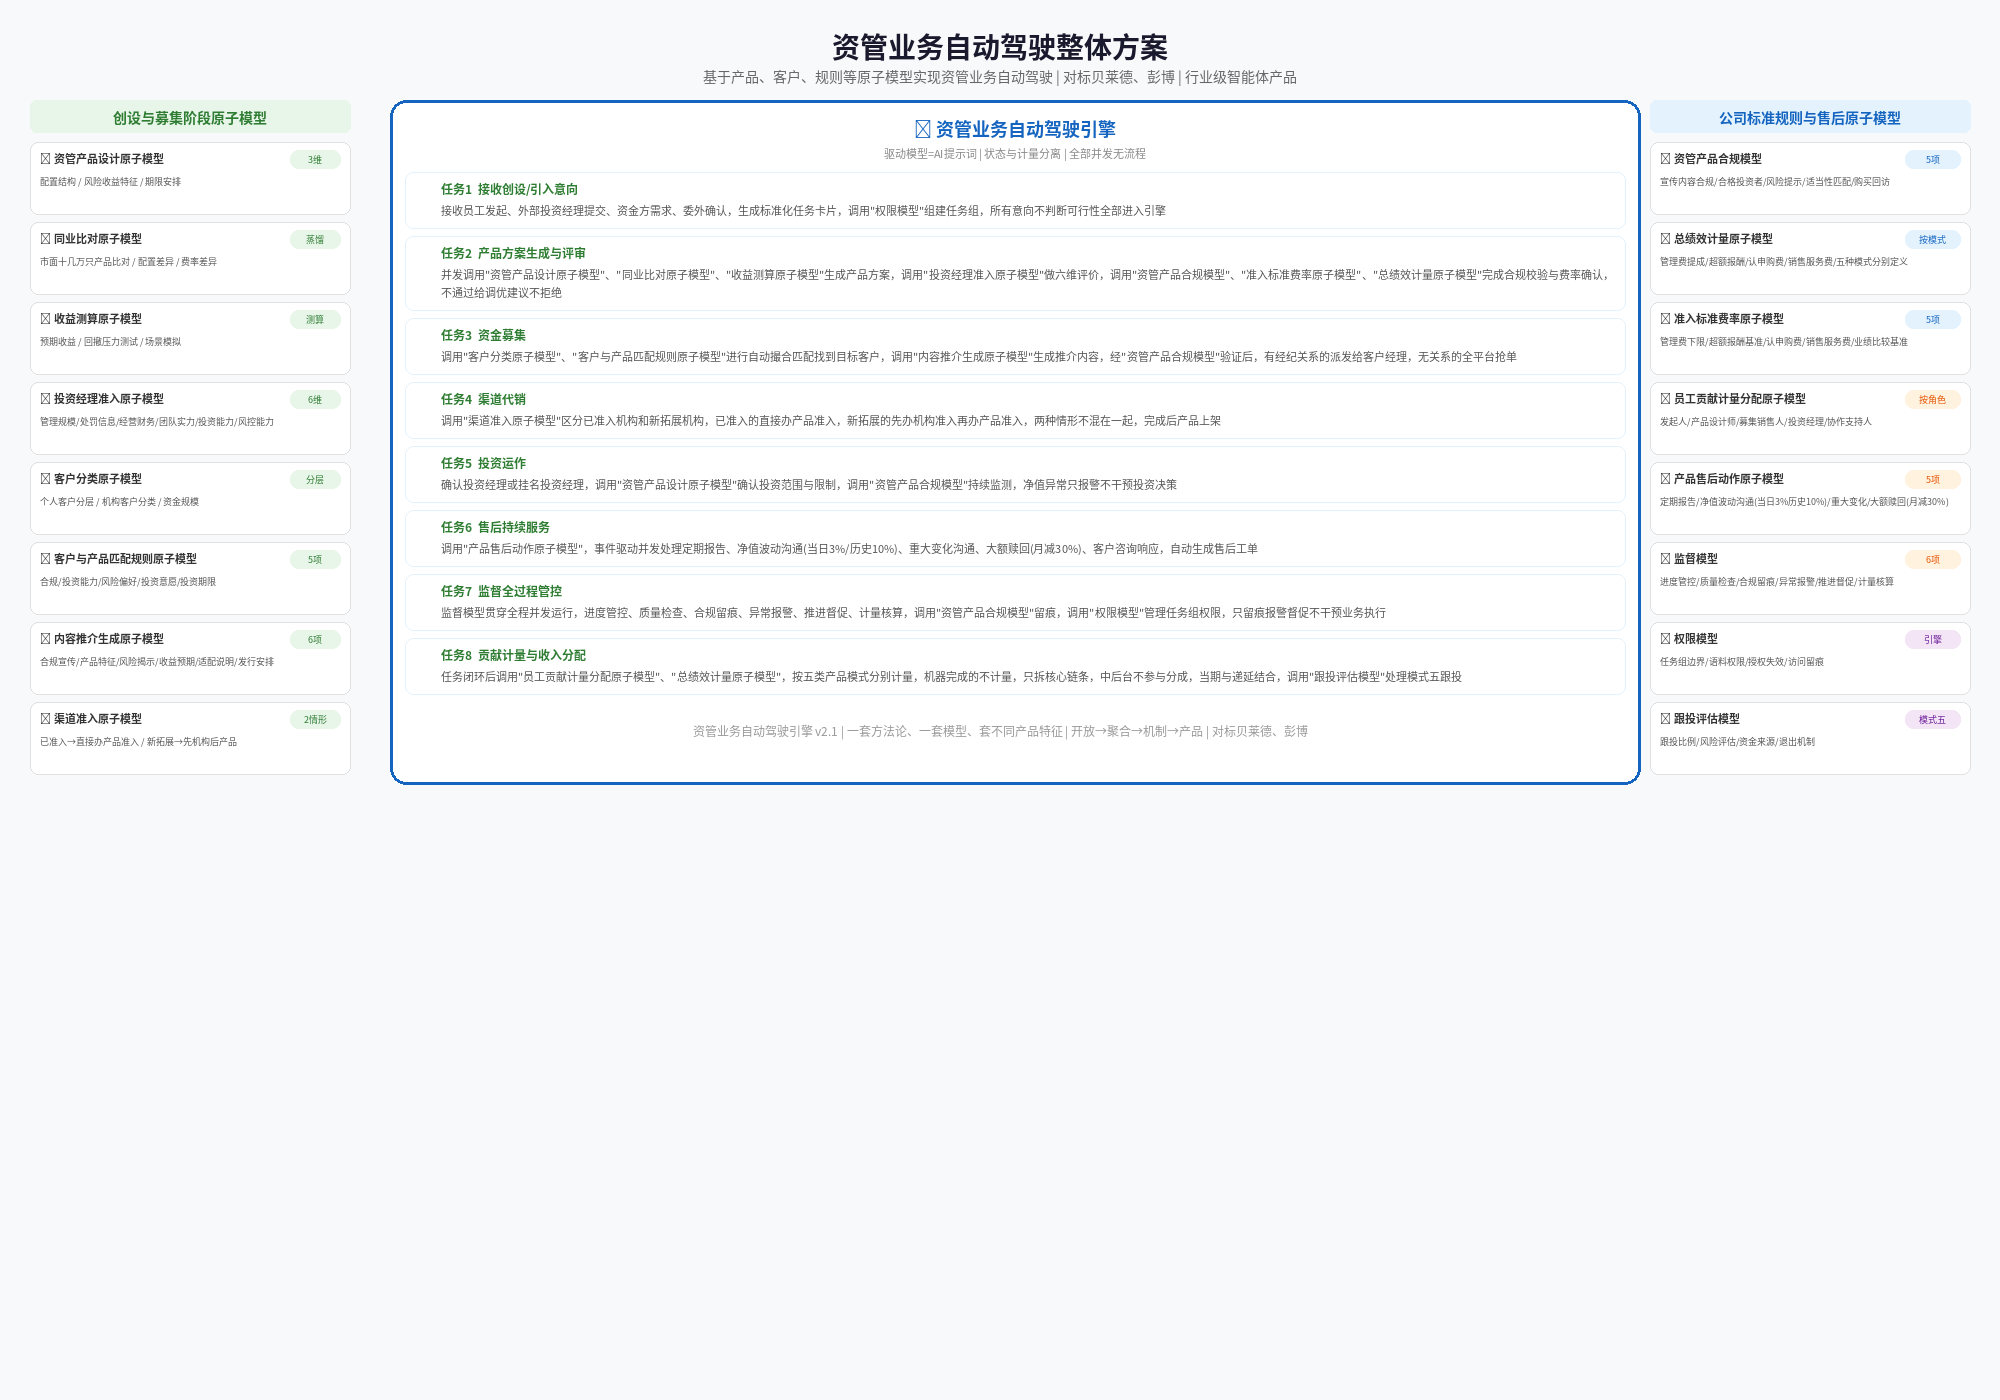
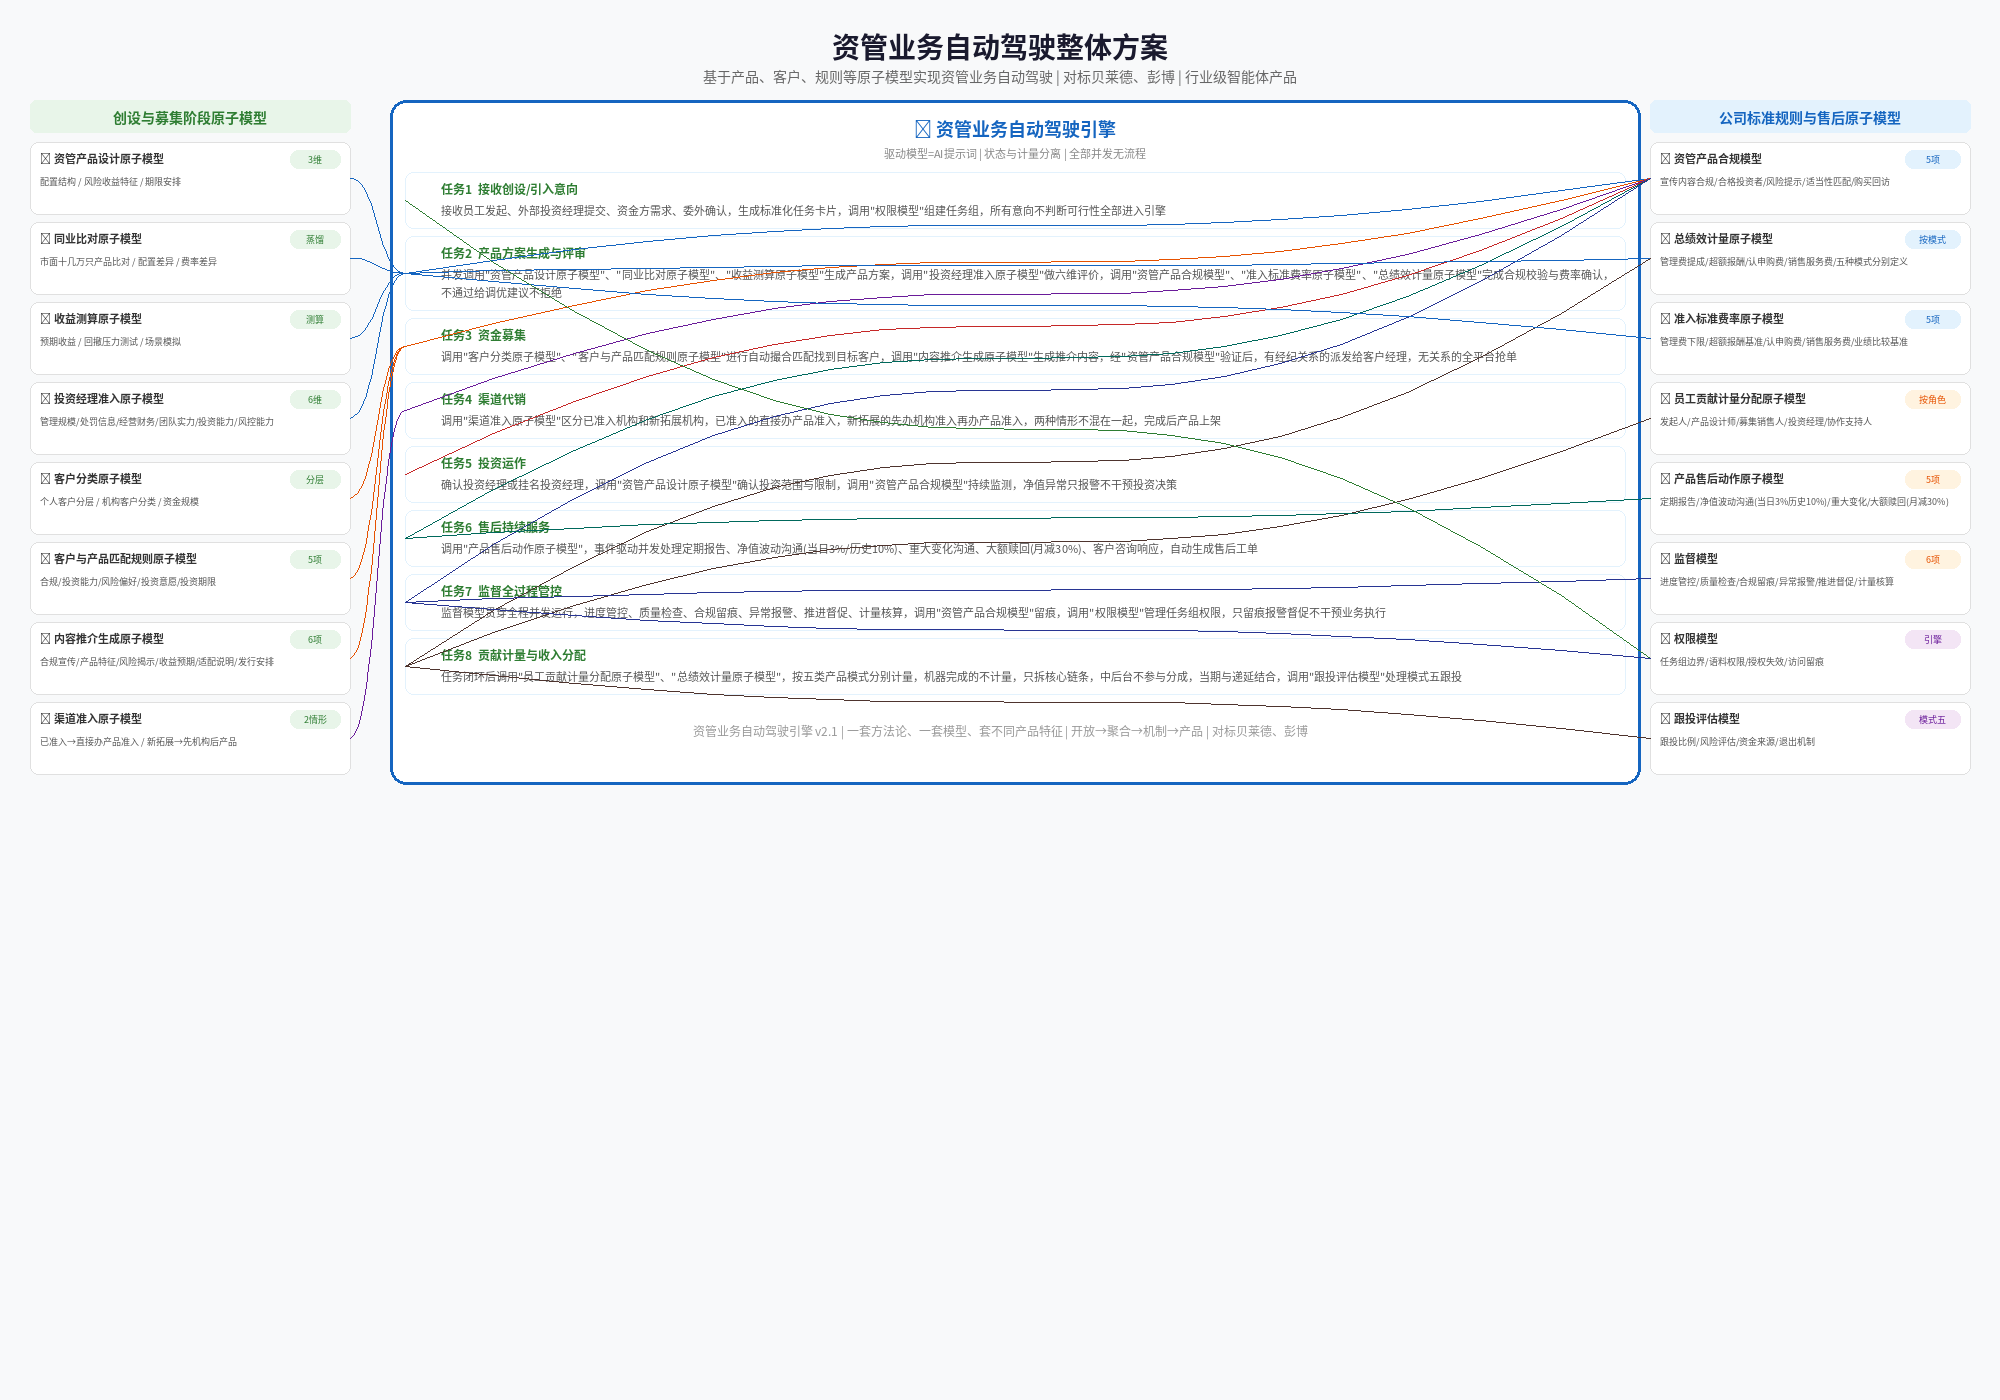
更新：资管方案架构图 - 补充左右原子模型与中间任务的调用关系线条

Changed region(s): [[0.775, 0.1229, 0.806, 0.1536]]

diff --git a/diagrams/generate_asset_mgmt_diagram.py b/diagrams/generate_asset_mgmt_diagram.py
@@ -263,9 +263,23 @@ for idx, (num, theme, body) in enumerate(tasks):
     task_y += task_h + 8
 
 # ==================== 连接线 ====================
-# 连接线已移除（用户要求）
-left_conn = []
-right_conn = []
+# 连接线
+left_conn = [
+    (0, 1), (1, 1), (2, 1), (3, 1),
+    (4, 2), (5, 2), (6, 2),
+    (7, 3),
+]
+
+right_conn = [
+    (0, 1), (0, 2), (0, 3), (0, 4), (0, 5), (0, 6),
+    (1, 1), (1, 7),
+    (2, 1),
+    (3, 7),
+    (4, 5),
+    (5, 6),
+    (6, 0), (6, 6),
+    (7, 7),
+]
 
 for model_idx, task_idx in left_conn:
     lx, ly = left_card_positions[model_idx]
